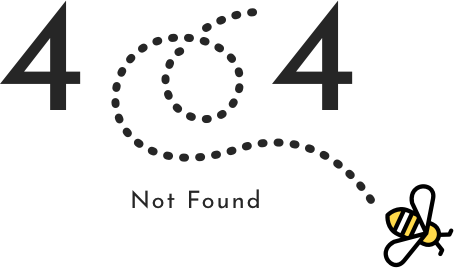
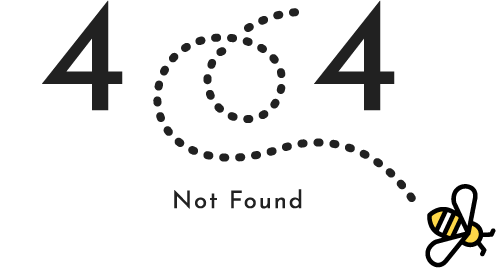
fix 諸々修正

diff --git a/app/wp-content/themes/officelab_renewal/assets/css/404/index.css b/app/wp-content/themes/officelab_renewal/assets/css/404/index.css
@@ -1,1 +1,1 @@
-.p-404__main{display:-webkit-box;display:-ms-flexbox;display:flex;-webkit-box-orient:vertical;-webkit-box-direction:normal;-ms-flex-direction:column;flex-direction:column;-webkit-box-align:center;-ms-flex-align:center;align-items:center;padding:20px 15px}.p-404__main .p-404__main__description{text-align:center;font-size:1.2rem;font-weight:700;line-height:180%}.p-404__footer{margin-top:30px;padding:20px 15px;background-color:#FFF2C3}.p-404__footer .p-404__footer__keywords__title{font-size:1.6rem;font-weight:700}
+.p-404__main{display:-webkit-box;display:-ms-flexbox;display:flex;-webkit-box-orient:vertical;-webkit-box-direction:normal;-ms-flex-direction:column;flex-direction:column;-webkit-box-align:center;-ms-flex-align:center;align-items:center;padding:20px 15px}.p-404__main img{width:80%;-o-object-fit:cover;object-fit:cover}.p-404__main .p-404__main__description{margin-top:20px;text-align:center;font-size:1.2rem;font-weight:700;line-height:180%}.p-404__footer{margin-top:30px;padding:20px 15px;background-color:#FFF2C3}.p-404__footer .p-404__footer__keywords__title{font-size:1.6rem;font-weight:700}

diff --git a/node/public/assets/css/404/index.css b/node/public/assets/css/404/index.css
@@ -20,7 +20,14 @@ $font-xxl: 2rem;
   padding: 20px 15px;
 }
 
+.p-404__main img {
+  width: 80%;
+  -o-object-fit: cover;
+  object-fit: cover;
+}
+
 .p-404__main .p-404__main__description {
+  margin-top: 20px;
   text-align: center;
   font-size: 1.2rem;
   font-weight: 700;

diff --git a/node/src/scss/entries/404/index.scss b/node/src/scss/entries/404/index.scss
@@ -9,7 +9,12 @@
   align-items: center;  
   padding:20px 15px;
 
+  img {
+    width: 80%;
+    object-fit: cover;
+  }
   .p-404__main__description {
+    margin-top:20px;
     text-align: center;
     font-size: $font-xs;
     font-weight: $font-bold;
